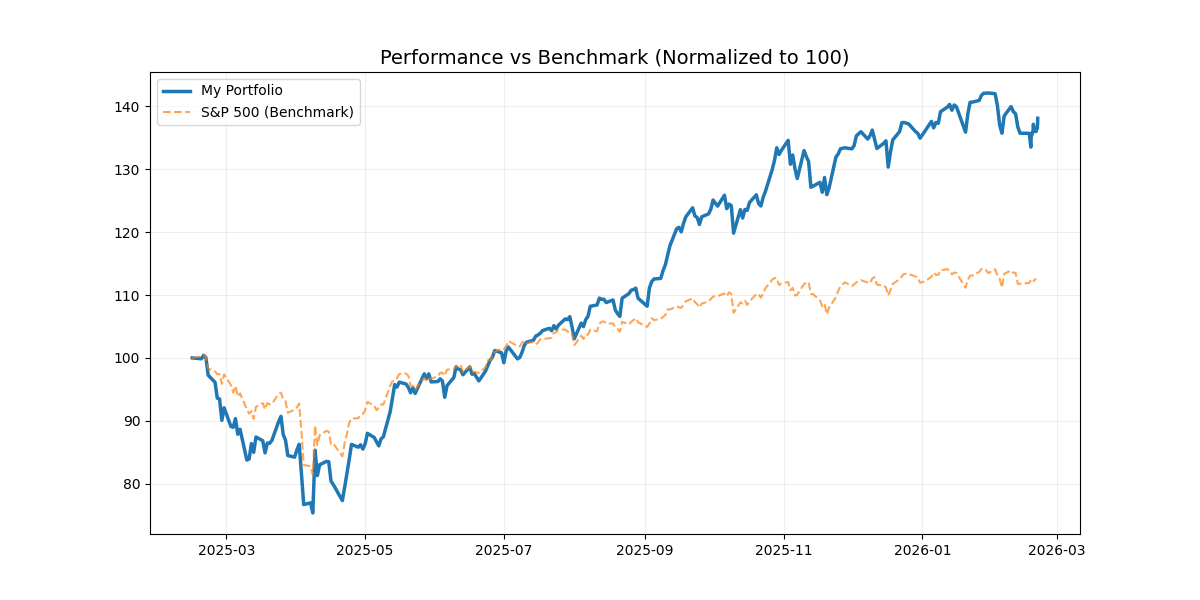
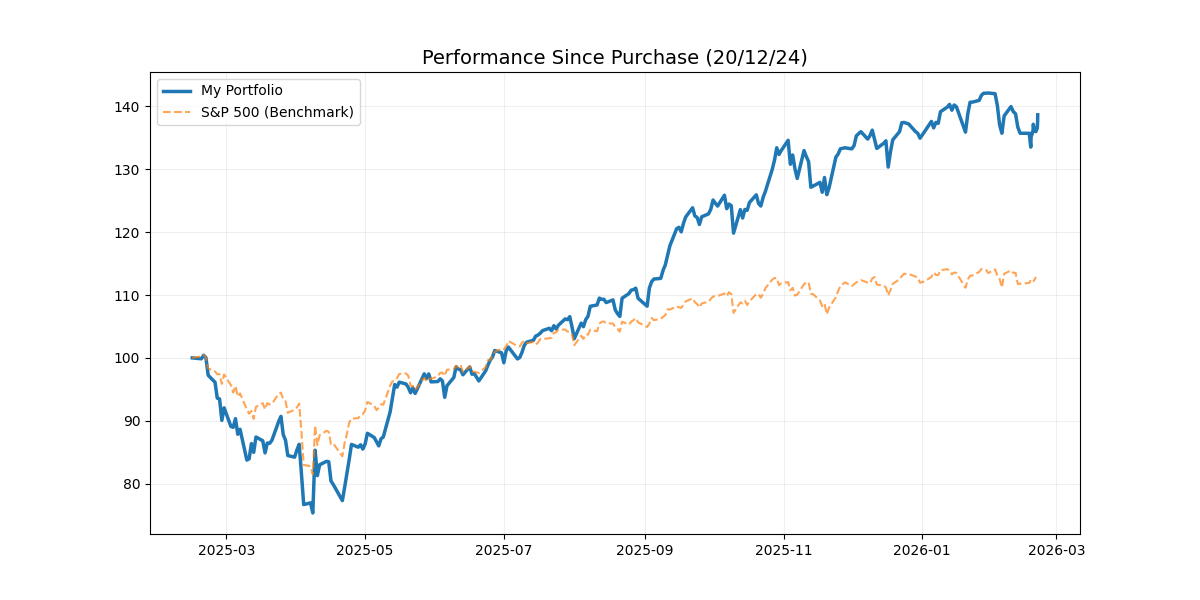
Data Update: Prices & Charts [skip ci]

Changed region(s): [[0.3083, 0.06, 0.7092, 0.12], [0.74, 0.9, 0.8017, 0.93]]

diff --git a/README.md b/README.md
@@ -1,16 +1,14 @@
 ![Python](https://img.shields.io/badge/python-3.8%2B-blue?logo=python)
 ![License](https://img.shields.io/badge/license-MIT-green)
-![Contributions Welcome](https://img.shields.io/badge/contributions-welcome-orange)
-
 # 📊 Portfolio Dashboard | מעקב תיק השקעות
-**Last Update / עדכון אחרון:** 20/02/2026 17:42 | **USD/ILS:** ₪3.117
+**Last Update / עדכון אחרון:** 20/02/2026 18:12 | **USD/ILS:** ₪3.112
 
-## 💰 Performance Summary | סיכום ביצועים
+## 💰 Performance Summary | סיכום ביצועים (מאז 20/12/2024)
 | Metric | Value | נתון |
 | :--- | :--- | :--- |
-| **Portfolio Value** | `₪181,225` | **שווי תיק** |
-| **Daily Change** | `+1.52%` (₪2,713) | **שינוי יומי** |
-| **Total Return** | `+38.09%` (₪49,990) | **תשואה מצטברת** |
+| **Portfolio Value** | `₪181,629` | **שווי תיק** |
+| **Daily Change** | `+1.70%` (₪3,030) | **שינוי יומי** |
+| **Total Return** | `+38.64%` (₪50,626) | **תשואה מצטברת** |
 | **Max Drawdown** | `-24.97%` | **ירידה מקסימלית** |
 | **Best Stock 🚀** | ASML | **המניה המנצחת** |
 
@@ -18,16 +16,8 @@
 ![Performance](./data_hub/portfolio_performance.png)
 ![Allocation](./data_hub/asset_allocation.png)
 
-## ⚙ How to Update? | הוראות עדכון
-### 🇺🇸 English
-1. Open `data_hub/portfolio.json`.
-2. Click the **Edit** icon.
-3. Modify symbols/amounts and **Commit changes**.
-
-### 🇮🇱 עברית
-1. פתחו את הקובץ `data_hub/portfolio.json`.
-2. לחצו על אייקון ה**עריכה**.
-3. עדכנו מניות/כמויות ולחצו על **Commit changes**.
-
+## ⚙ Settings | הגדרות תיק
+- **Purchase Date:** 20/12/2024
+- **Data Hub Path:** `data_hub`
 ---
 📂 *Created by [Almog787](https://github.com/Almog787)* | [Live Site](https://almog787.github.io/Sapa/)
